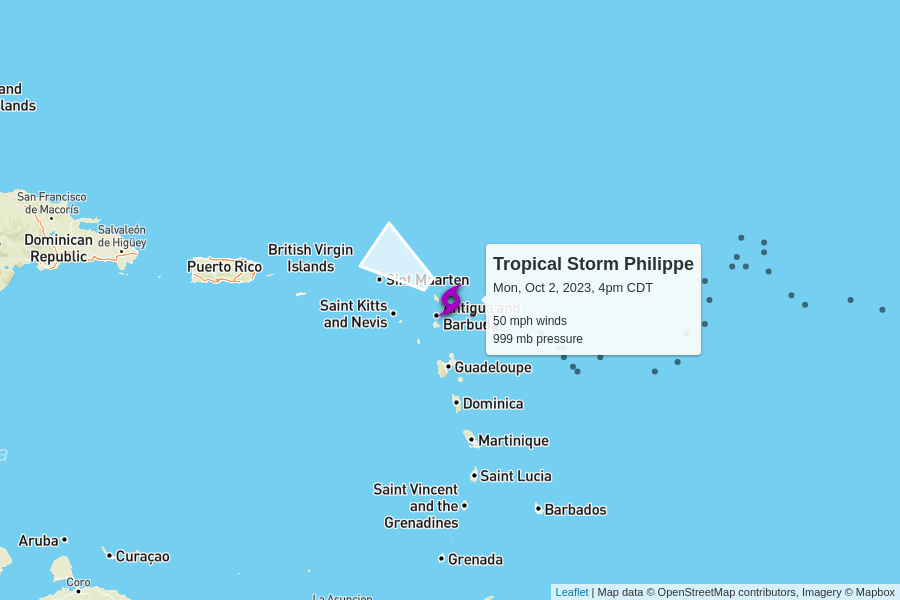
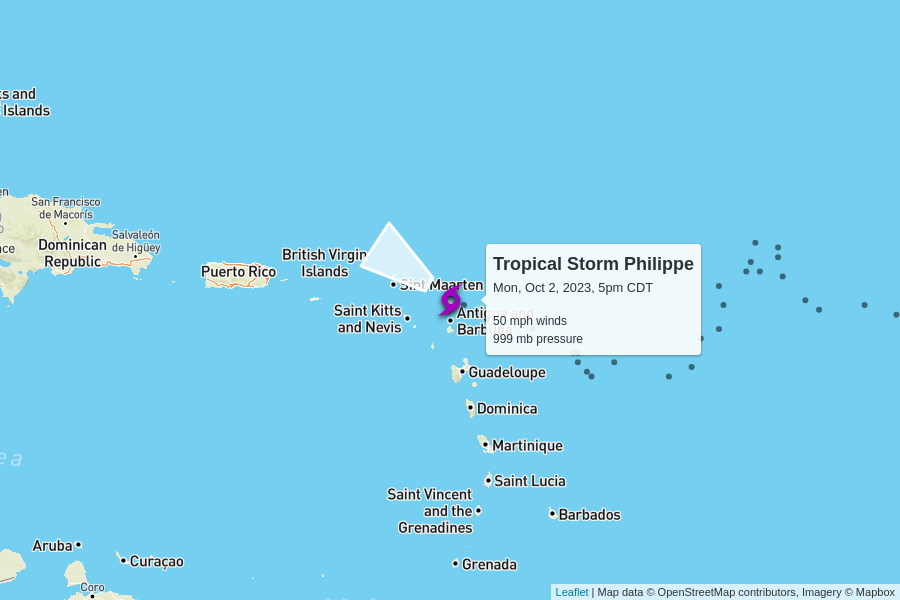
automatic update

diff --git a/docs/index.html b/docs/index.html
@@ -102,7 +102,7 @@
         <td colspan="6" class="storm category-0" >
           <h2>
             Tropical Storm Philippe
-            <p class="updated">last updated <span data-time>2023-10-02T21:00:00.000Z</span></p>
+            <p class="updated">last updated <span data-time>2023-10-02T22:00:00.000Z</span></p>
           </h2>
         </td>
       </tr>
@@ -118,7 +118,7 @@
       <tr>
         <td class="spacer"></td>
         <td>50 mph<br>0 mph since last update</td>
-        <td>999 mb<br>-1 mb since last update</td>
+        <td>999 mb<br>0 mb since last update</td>
         <td>
           7 mph to the northwest
           <br/>
